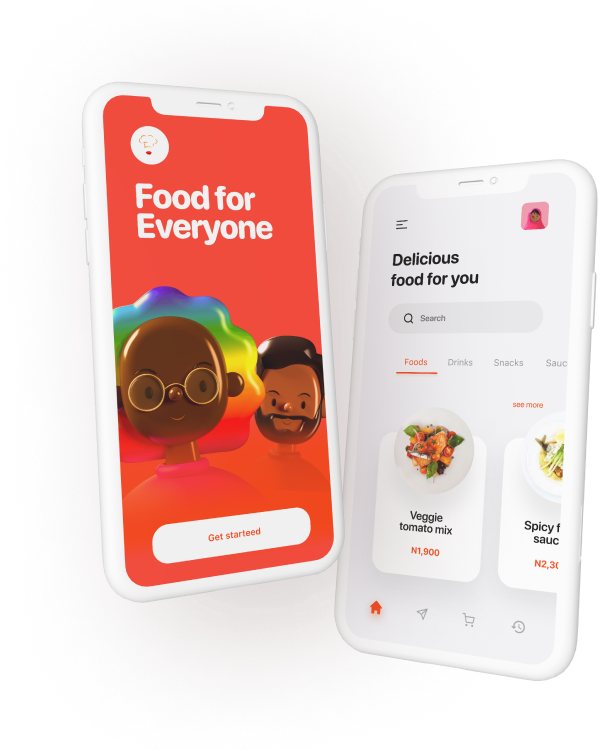
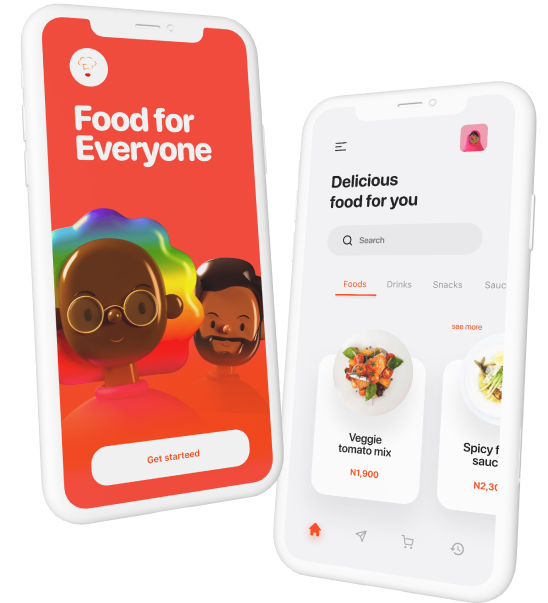
added features

diff --git a/src/components/HeroSection/HeroSectionContent/HeroSectionActions/HeroSectionActions.scss b/src/components/HeroSection/HeroSectionContent/HeroSectionActions/HeroSectionActions.scss
@@ -11,12 +11,24 @@
     z-index: 5;
   }
 
+  #appstore-button {
+    background-color: transparent;
+    border: 1px solid white;
+  }
+
+  #appstore-button:hover {
+    background-color: $button-hover-color-transparent;
+    border-color: #fff;
+  }
+  #playstore-button:hover {
+    background-color: $button-hover-color;
+    border-color: $button-hover-color;
+  }
+
+
+
 }
 
-#appstore-button {
-  background-color: transparent;
-  border: 1px solid white;
-}
 
 @media (max-width: 667px) {
   .hero-section__actions {
@@ -24,7 +36,7 @@
 
     #appstore-button,
     #playstore-button {
-      margin: 10px 0px;
+      margin: 10px 0;
     }
 
     #appstore-button {

diff --git a/src/components/HeroSection/HeroSectionContent/HeroSectionContent.scss b/src/components/HeroSection/HeroSectionContent/HeroSectionContent.scss
@@ -1,3 +1,5 @@
+@import './src/components/Styles/colors';
+
 .hero-section__content {
   background-image: url('../../img/herosection-bg.png');
   background-repeat: no-repeat;
@@ -5,8 +7,9 @@
 
   text-align: center;
 
+
   width: 100%;
-  height: 650px;
+  padding: 66px 25px 140px 25px;
 
   display: flex;
   flex-direction: column;
@@ -22,8 +25,9 @@
 @media (max-width: 667px) {
   .hero-section__content {
     background-image: none;
-    background-color: #fafafa;
-    height: 778px;
+    background-color: $secondary-color;
+    padding-botton: 200px;
+    //height: 778px;
 
     h1,
     h3,

diff --git a/src/components/DownloadSection/DownloadSectionContent/DownloadSectionActions/DownloadSectionActions.scss b/src/components/DownloadSection/DownloadSectionContent/DownloadSectionActions/DownloadSectionActions.scss
@@ -1,4 +1,5 @@
 @import './src/components/Styles/mediaSizes';
+@import './src/components/Styles/colors';
 
 .download-section__actions {
   display: flex;
@@ -17,6 +18,20 @@
 
   #appstore-button {
     padding: 16px 45px;
+  }
+
+  #appstore-button {
+    background-color: transparent;
+    border: 1px solid white;
+  }
+
+  #appstore-button:hover {
+    background-color: $button-hover-color-transparent;
+    border-color: #fff;
+  }
+  #playstore-button:hover {
+    background-color: $button-hover-color;
+    border-color: $button-hover-color;
   }
 }
 

diff --git a/src/components/HeroSection/HeroSectionContent/HeroSectionImage/HeroSectionImage.scss b/src/components/HeroSection/HeroSectionContent/HeroSectionImage/HeroSectionImage.scss
@@ -1,6 +1,6 @@
 .hero-section__image {
-  width: 600px;
-  margin: -240px 0 0 -150px;
+  width: 550px;
+  margin-top: -110px;
 
   img {
     text-align: center;
@@ -11,14 +11,12 @@
 
 @media(max-width: 767px) {
   .hero-section__image {
-    width: 550px;
-    margin: -155px 0 0 -80px;
+    width: 500px;
   }
 }
 
 @media(max-width: 667px) {
   .hero-section__image {
-    width: 450px;
-    margin-top: -250px;
+    width: 400px;
   }
 }

diff --git a/src/components/Header/Burger/BurgerNavigation/BurgerNavigation.scss b/src/components/Header/Burger/BurgerNavigation/BurgerNavigation.scss
@@ -3,7 +3,7 @@
   top: 113px;
   left: 0;
   width:100%;
-  animation: pop-up-menu 0.3s ease-in;
+  animation: pop-up-menu 0.2s ease-in;
   height: 280px;
   background-color: white;
 
@@ -12,7 +12,7 @@
     align-items: center;
     max-width: 100%;
     height: 280px;
-    animation: opacity 0.15s ease-in;
+    animation: opacity 0.4s ease-in;
     opacity: 1;
     margin: 0;
 

diff --git a/src/components/UI/Button/Button.scss b/src/components/UI/Button/Button.scss
@@ -9,9 +9,11 @@
   align-items: center;
   padding: 16px 58.5px;
   cursor: pointer;
-  border: none;
+  border: 1px solid $main-color;
   color: white;
   font-size: 24px;
   font-weight: 700;
   line-height: 36px;
+  transition: 0.3s ease;
 }
+

diff --git a/src/components/Styles/_colors.scss b/src/components/Styles/_colors.scss
@@ -3,3 +3,5 @@ $secondary-color: #fafafa;
 $secondary-text-color: #737373;
 $separator-color: #e4e4e4;
 $background-color-download: #252B42;
+$button-hover-color: rgb(255, 123, 75);
+$button-hover-color-transparent: rgba(255, 255, 255, 0.2);

diff --git a/src/components/Header/Header.tsx b/src/components/Header/Header.tsx
@@ -1,4 +1,4 @@
-import React, {useState} from 'react';
+import React from 'react';
 
 import Navigation from './Navigation/Navigation';
 import Image from "../UI/Image/Image";

diff --git a/src/components/Footer/Social/Social.tsx b/src/components/Footer/Social/Social.tsx
@@ -1,5 +1,6 @@
 import React from 'react';
 import Image from "../../UI/Image/Image";
+import { SocialIcon} from 'react-social-icons'
 
 import './Social.scss'
 

diff --git a/src/components/Footer/Social/Social.scss b/src/components/Footer/Social/Social.scss
@@ -6,5 +6,11 @@
   img {
     margin: 0 13px;
     cursor: pointer;
+    transition: 0.4s ease;
   }
+
+  img:hover{
+    filter: alpha(0.5);
+  }
+
 }

diff --git a/src/components/UI/Text/HeaderText.scss b/src/components/UI/Text/HeaderText.scss
@@ -4,6 +4,7 @@
   font-size: 16px;
   font-weight: 600;
   cursor: pointer;
+  transition: 0.3s ease;
 }
 
 .header-text:hover {

diff --git a/src/components/DownloadSection/DownloadSection.scss b/src/components/DownloadSection/DownloadSection.scss
@@ -12,6 +12,7 @@
   justify-content: center;
   align-items: center;
   margin-top: 50px;
+  padding: 0 25px;
 }
 
 
